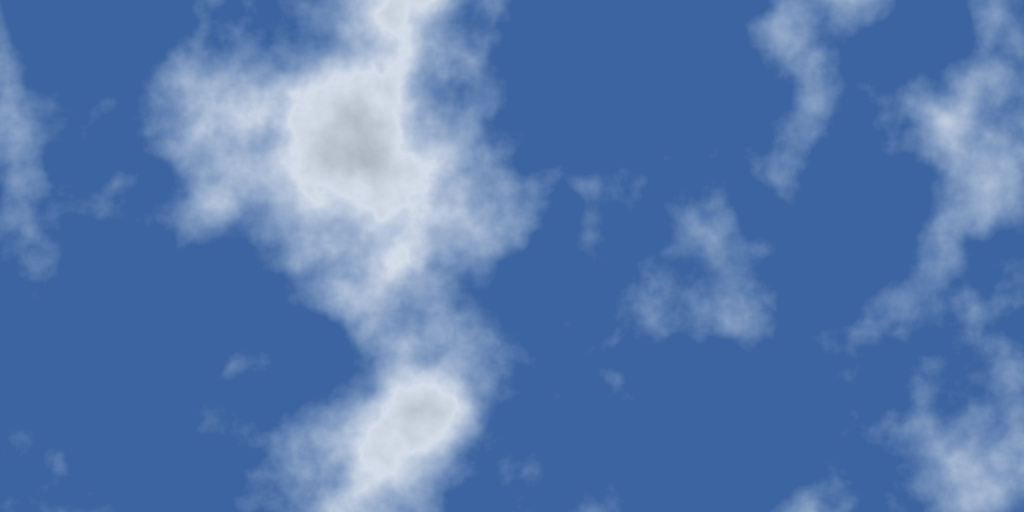
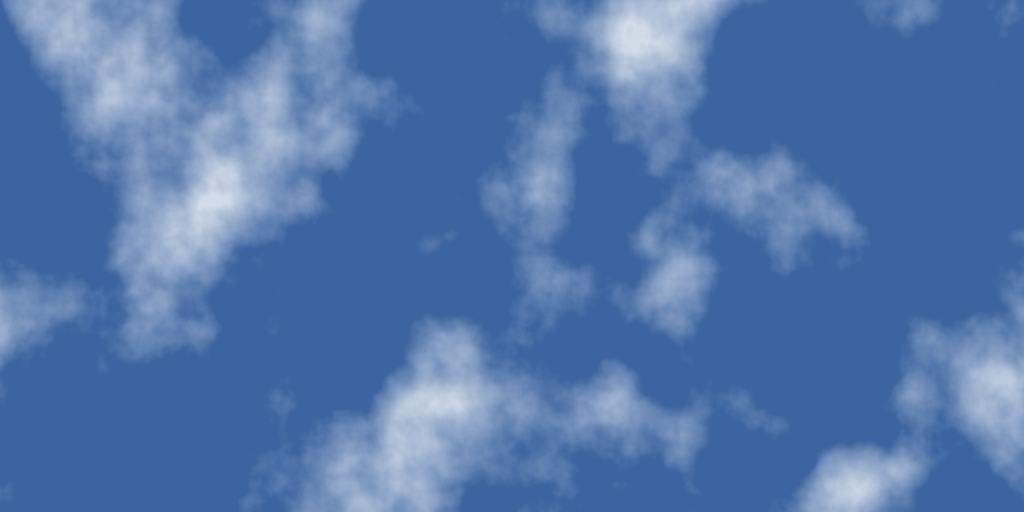
Update

diff --git a/docs/index.html b/docs/index.html
@@ -3,6 +3,6 @@
 <body>
 Today's cloud<br/>
 <img src="latest.png"/><br/>
-Latest update: Thu Mar 25 22:02:47 UTC 2021
+Latest update: Fri Mar 26 22:02:39 UTC 2021
 </body>
 </html>
